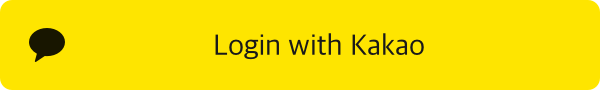
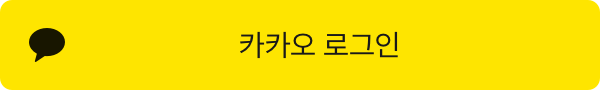
2023.10.21 버튼수정

Changed region(s): [[0.36, 0.3556, 0.72, 0.6667]]

diff --git a/src/main/webapp/resources/css/member.css b/src/main/webapp/resources/css/member.css
@@ -126,6 +126,25 @@ html, body {
 cursor: not-allowed;
 }
 
+.btn2 {
+    width: 100%;
+    margin: 15px 0;
+    padding: 12px 15px;
+    background:  #fff;
+    border-color:#212529;
+/*     border: none; */
+    border-radius: 4px;
+    cursor: pointer;
+    color:#212529;
+    transition-duration: 0.2s;
+}
+
+
+.btn2:disabled{
+	opacity: 0.2;
+cursor: not-allowed;
+}
+
 .ck {
     margin-left: 20px;
 }
